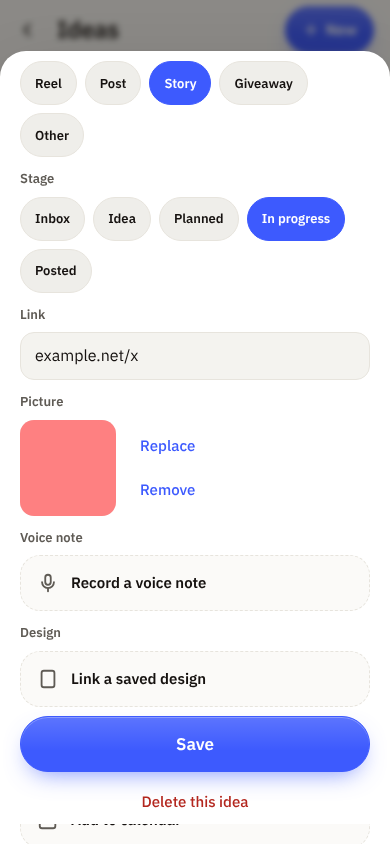
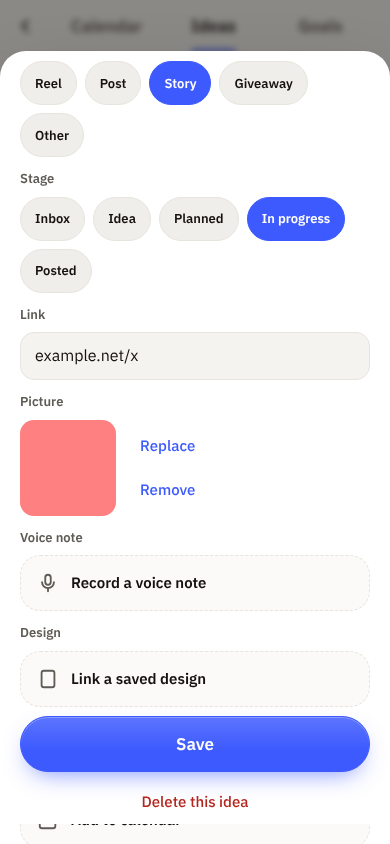
plantabs suite (38 checks) + interim CSS hiding module Back/title in the shell; taste notes for round 5

Changed region(s): [[0.7077, 0.0, 0.9846, 0.0616], [0.1538, 0.0, 0.3692, 0.0616], [0.4923, 0.0, 0.6154, 0.0616]]

diff --git a/assets/studio.css b/assets/studio.css
@@ -1659,3 +1659,7 @@ body.on-plan{padding-bottom:0;overflow:hidden;overscroll-behavior:none}
 @media (prefers-reduced-motion: reduce){ .st-tab,.st-l{transition:none} }
 .plan-shell .cal-top{margin-inline:0;padding:6px 0;border-bottom:0}
 .plan-shell .kp-shbar{gap:var(--sp-2)}
+/* shell: a module's own Back and page title give way to the tab bar (the modules also skip them when ctx.shell is set) */
+.plan-shell .pv-pane .cal-head .sp-back,.plan-shell .pv-pane .id-head .sp-back{display:none}
+.plan-shell .pv-pane .cal-head .sp-title,.plan-shell .pv-pane .id-head .sp-title{position:absolute;width:1px;height:1px;overflow:hidden;clip:rect(0 0 0 0);white-space:nowrap}
+.plan-shell .pv-pane .cal-head,.plan-shell .pv-pane .id-head{justify-content:flex-end}

diff --git a/studio-notes/taste.md b/studio-notes/taste.md
@@ -120,3 +120,11 @@ Counts = separate versions or briefs where the issue was raised. "Exists" = alre
 - 2.5.1 [S]: flicker on the Home Calendar row and when switching Plan tabs (redraws); a horizontally scrolling chip row is rejected ("make it fixed, no scrolling"); page-wide slide/resize between tabs rejected ("the bar fixed, the content fixed, no animation of resizing the entire page"); the browser's "Leave site?" on Back is wrong (wants the Update prompt); sheets must slide up and close on an outside tap. Checks: `ideas`/`calendar`/`kpis` (no-redraw), `home7-hub`, `nav`.
 - 2.5.2 [S]: page switchers within thumb reach (bottom), never at the top of a phone page; the bottom bar must stretch with no gap; a highlight must never overshoot its box (no spring on bounded movers); "make the new look the default"; Back must ask before losing work in EVERY tool, not only saved designs. Checks: `home7-hub` (+ inside the bar), `smoke`, `nav`.
 
+
+## Round 5 (15 Nov 2026, 15-session round) [S]
+- Calendar / Ideas / Goals: the floating strip above the bottom bar "covers content and looks crowded", switching was slow and old text overlapped the new one. He now wants **swipeable tabs at the top of the section, like Instagram profile tabs**, with an indicator that follows, instant switching (all three kept ready) and zero overlap. This replaces the 2.5.2 wish for switchers at the bottom (newest evidence wins). Check: `nav`, `kpis`, `calendar`, `ideas` (shell), `plantabs`.
+- Calendar Week / Month / Feed switching must be instant and smooth (draw from cache, no reload). Check: `calspeed`.
+- Ideas: no inbox (straight to the board, "new" dot until opened), a discussion thread per idea (text + voice replies, who and when), several voice notes, and **voice notes must never be lost by accident** (confirm + archive + restore). Check: `ideas`, `ideas-thread`.
+- Voice notes must sound clear (high quality speech), not heavily compressed.
+- Home: rejected the big tools grid ("really bad: huge cards, only two visible, camera button covering the artwork, bad crops") and the "+ Idea" pill. Wants a hierarchy: slim header, search, Today (tabs with today's posts), compact tools list; all at once with placeholders. Check: `home2`.
+- What's New: max one level of opening ("4–5 taps" to reach an older version was rejected); a jump bar to any version. Check: `whatsnew`.
